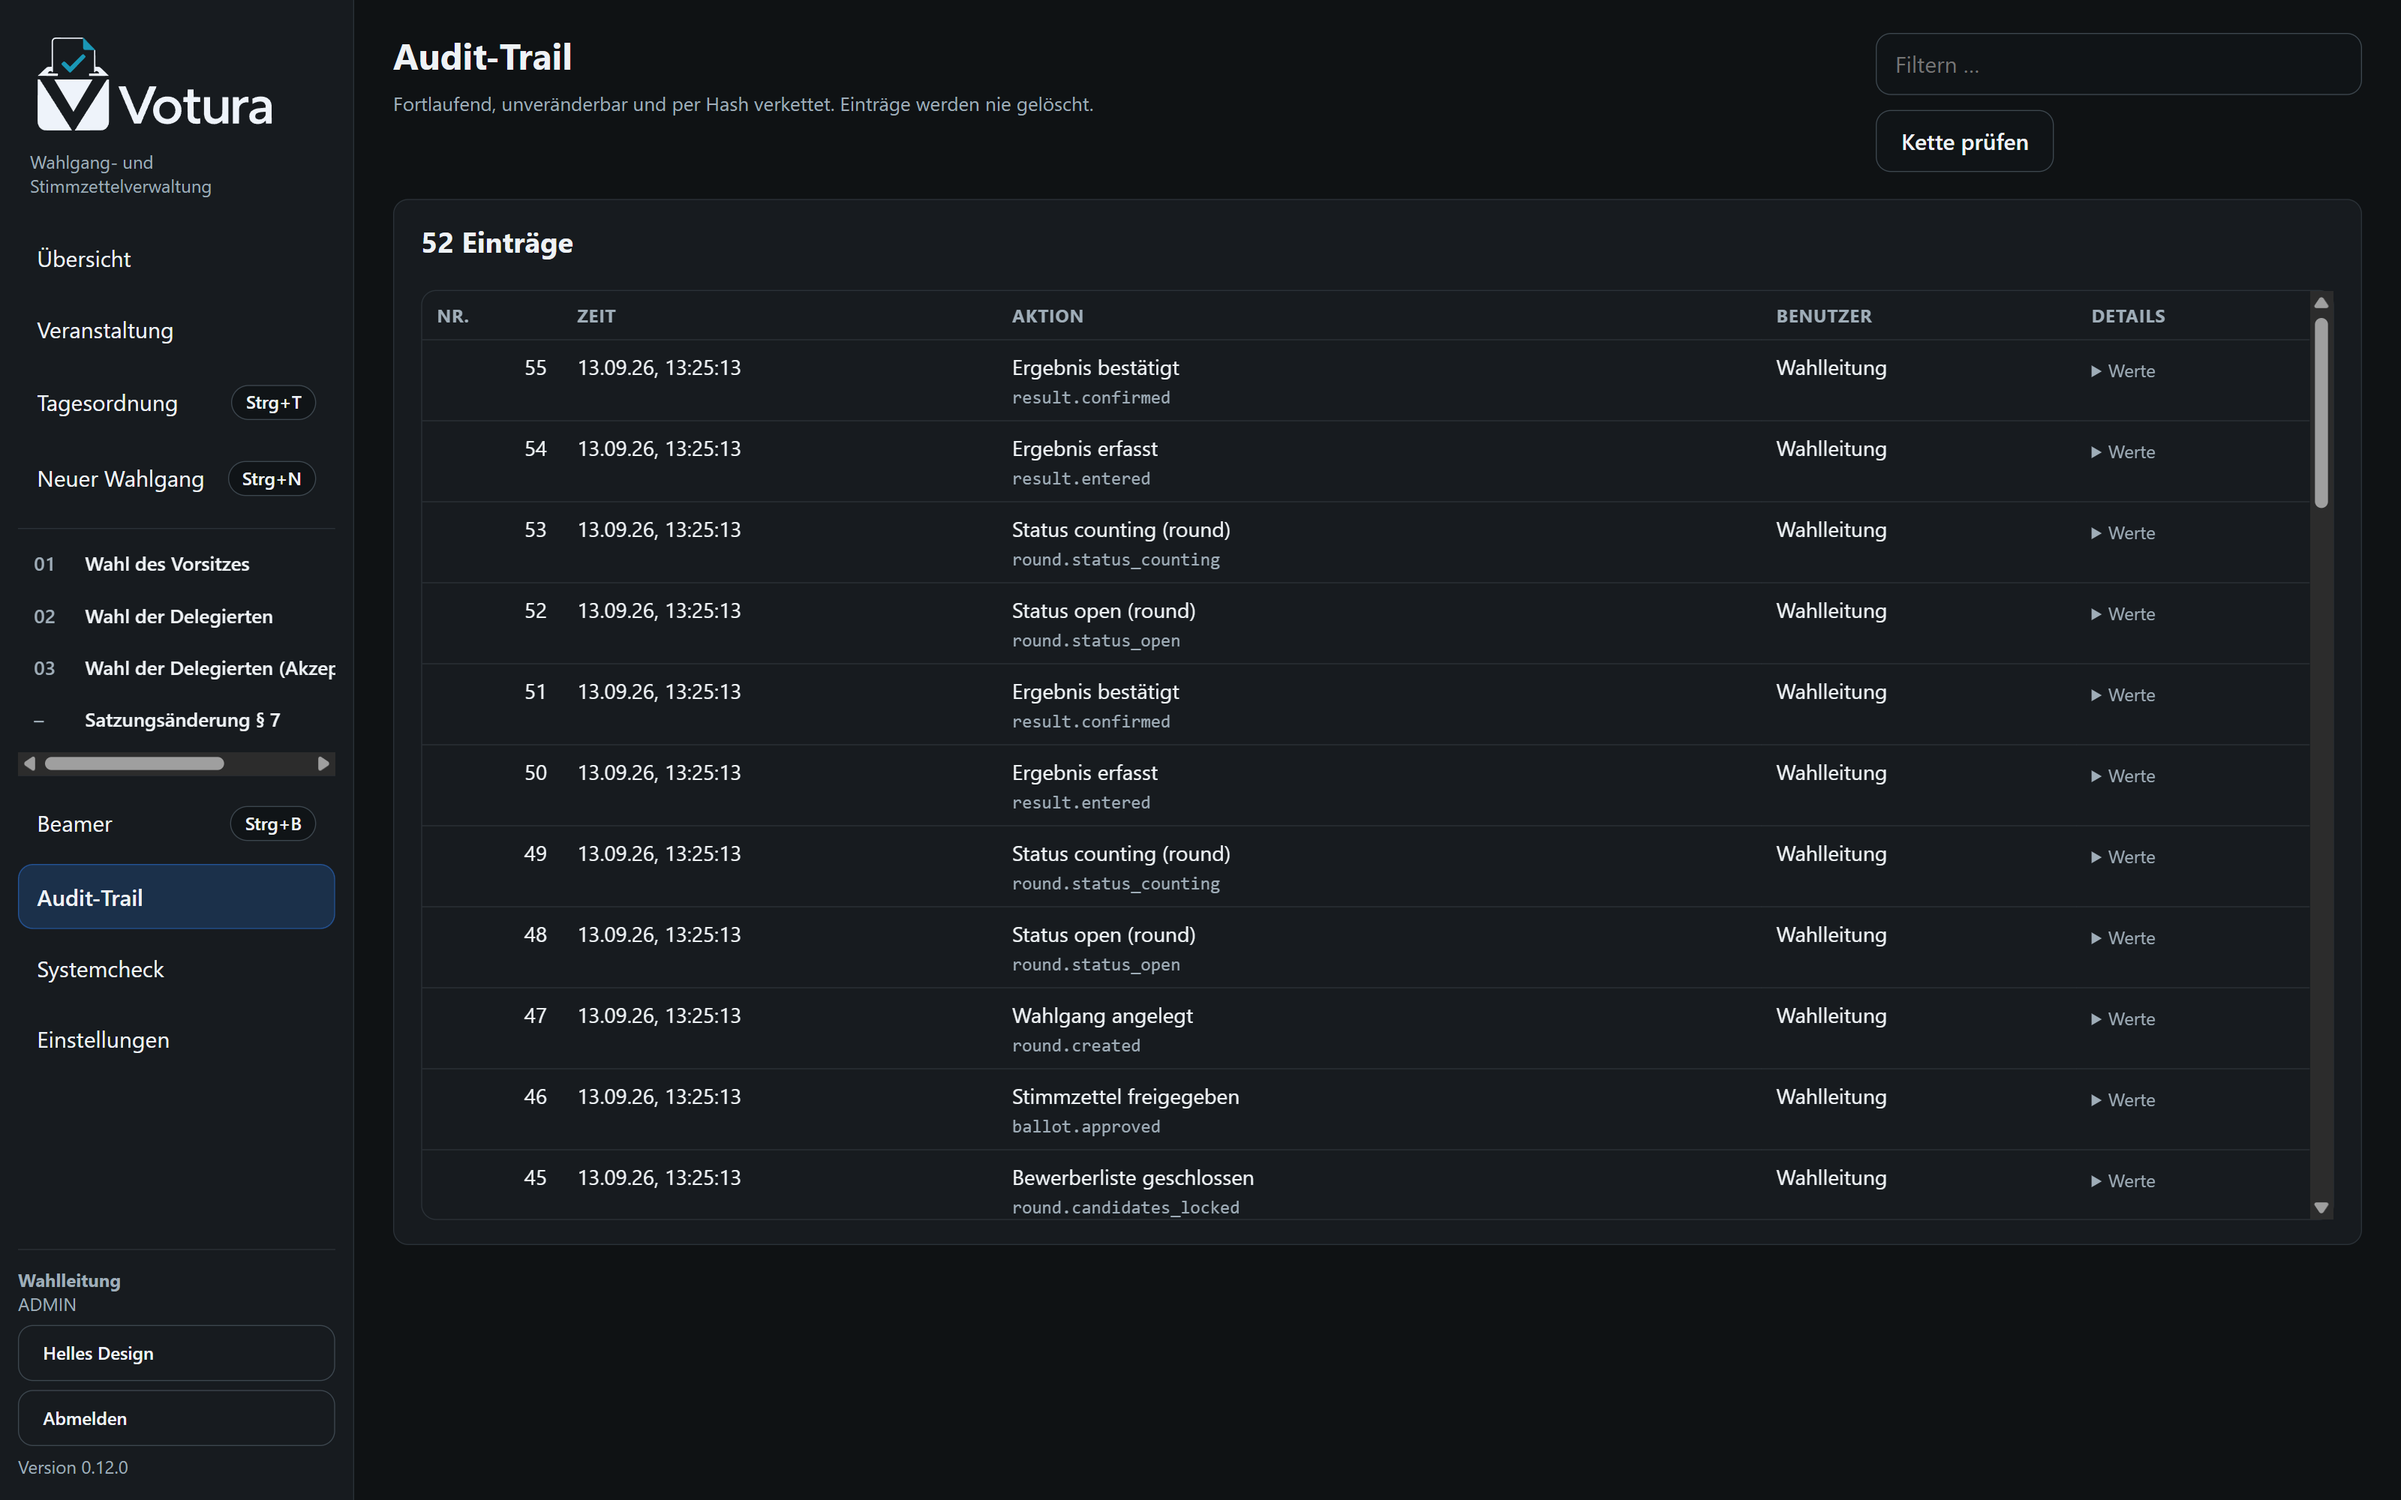
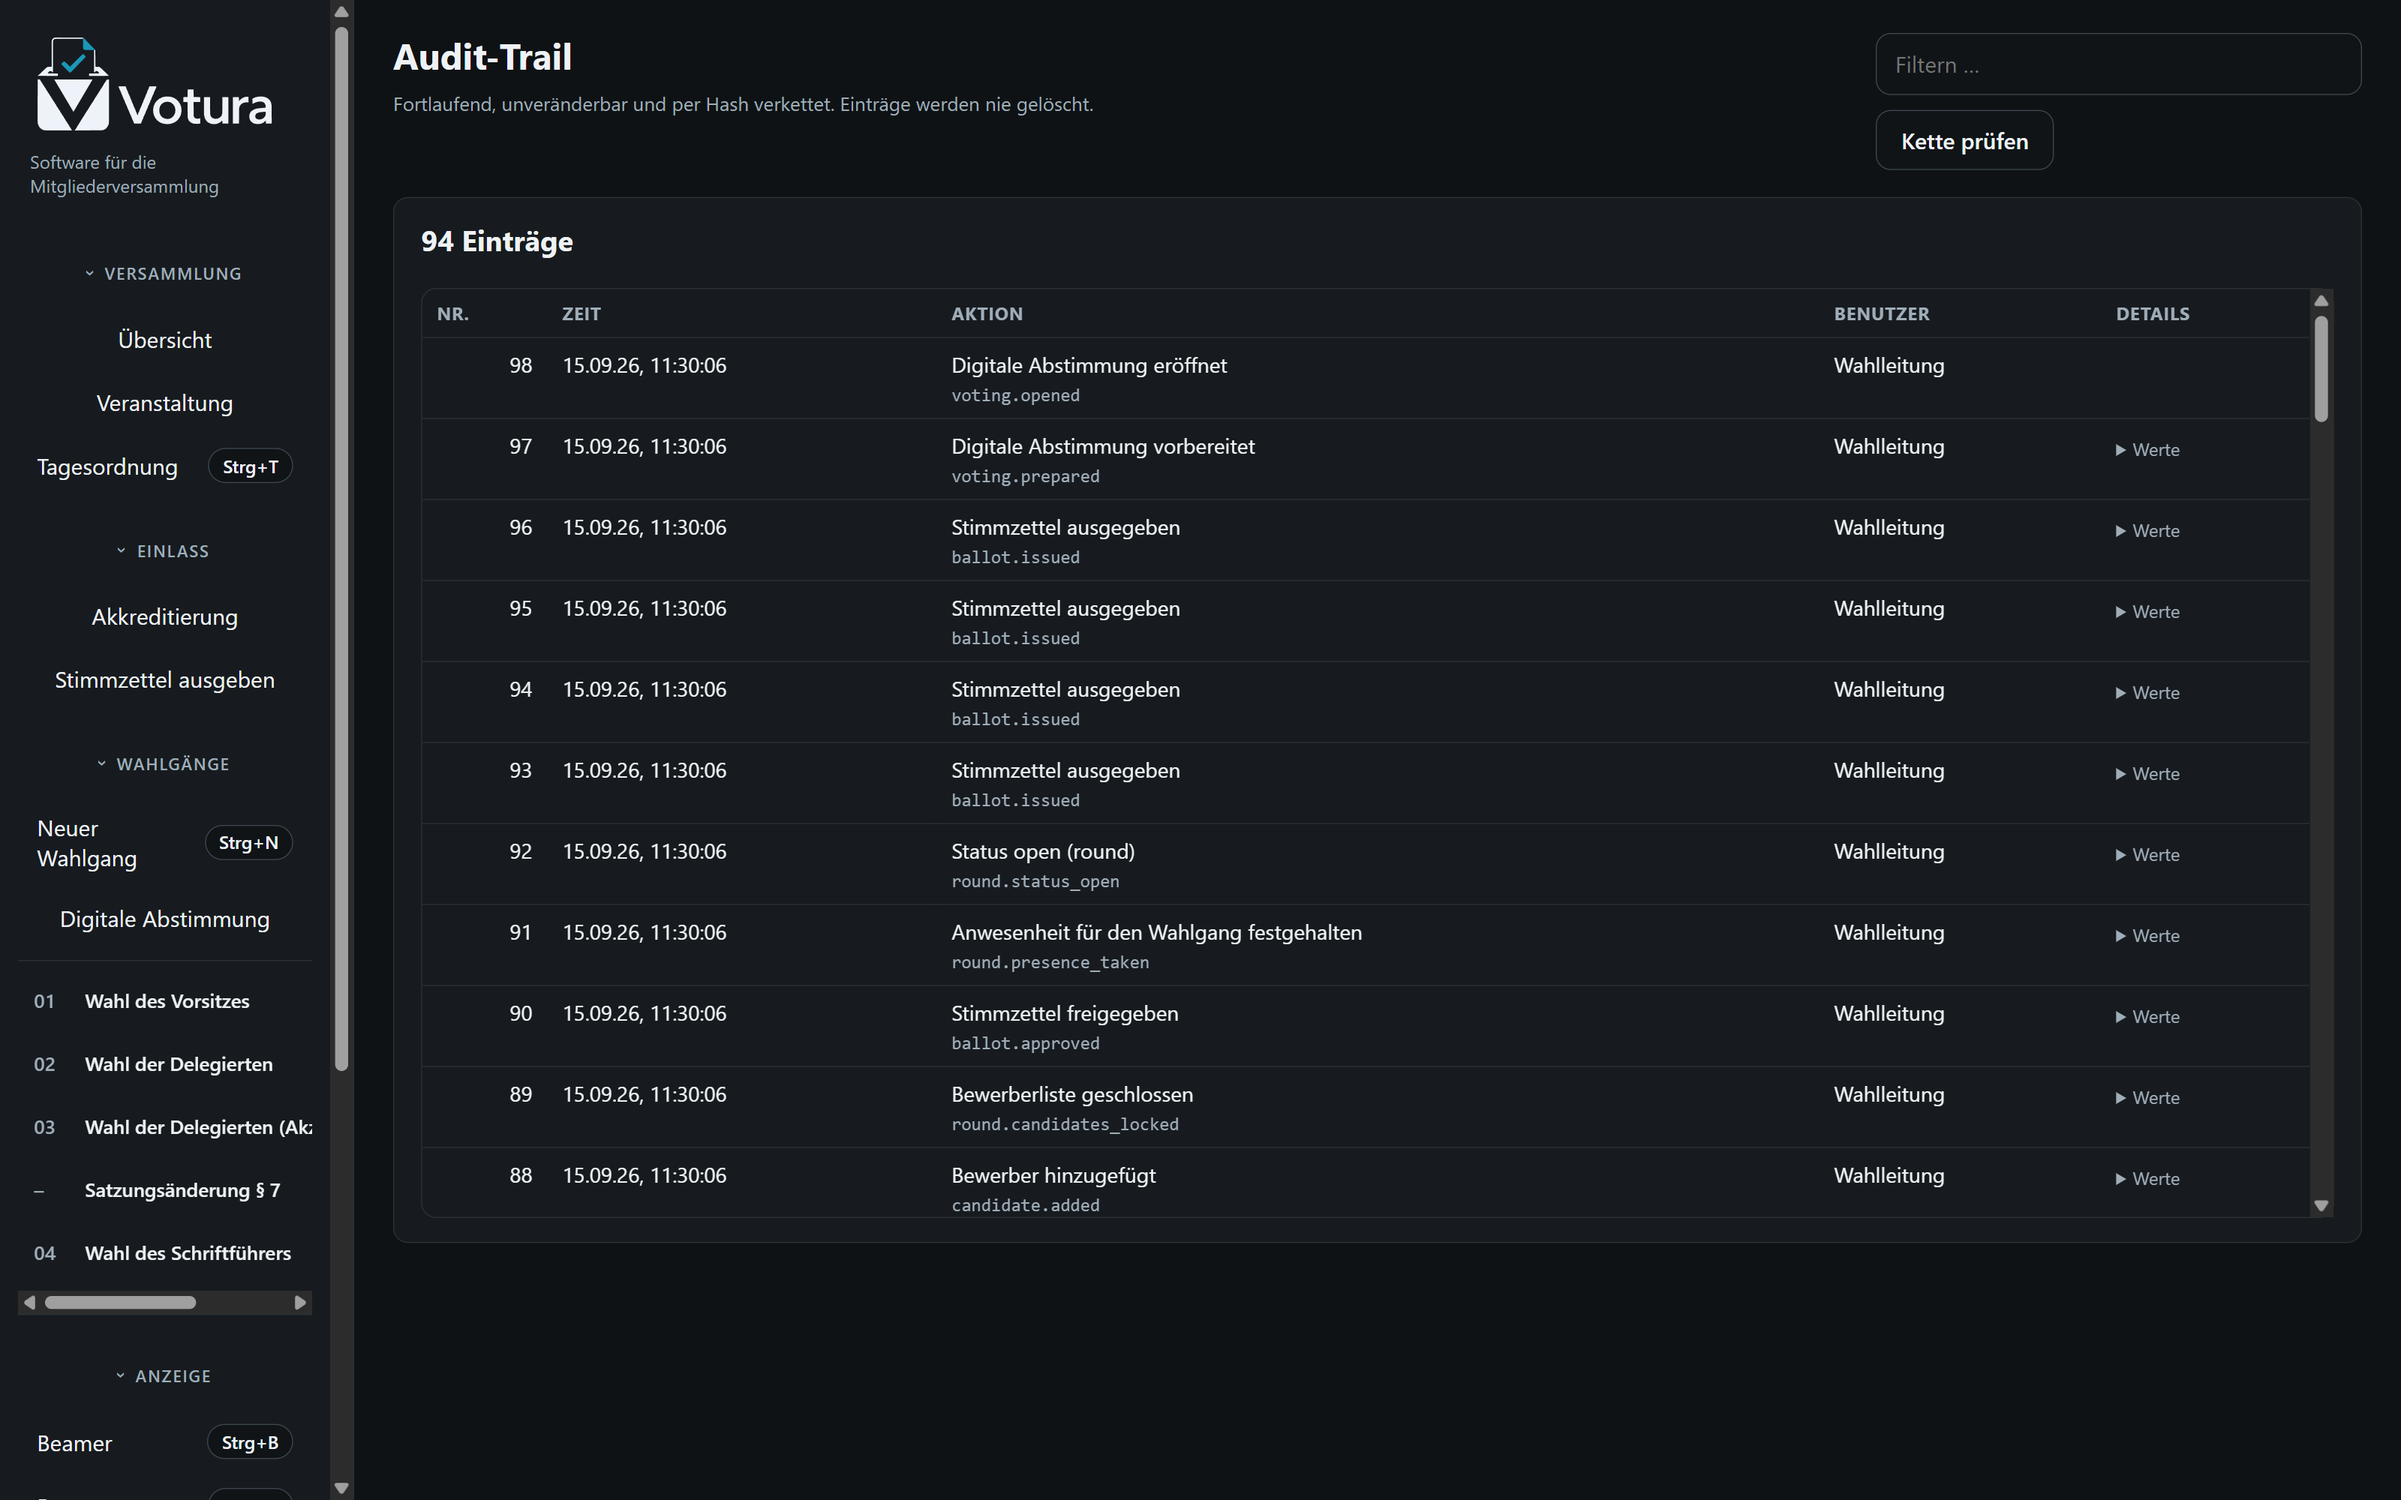
docs: die Bildschirmfotos zeigen wieder die Anwendung, die es gibt
Der Bestand stammte vom 13. September — zwei Fassungen und rund vierzig
Commits her. Drei Aufnahmen waren obendrein von Hand gemacht (Bühnen,
Pult, Prompterbedienung): Das Werkzeug kannte sie nicht und hätte sie
beim nächsten Lauf einfach alt stehen lassen.

Schwerer wog, was ganz fehlte: Für Einlass, Ausgabe, digitale
Abstimmung und Saalnetz — die Neuerungen aus 1.4.0 — gab es kein
einziges Bild. Das Werkzeug legt dafür jetzt auch die nötigen Daten an:
vierzehn Teilnehmer, davon neun anwesend und zwei Gäste, vierzig Karten,
ein laufender Wahlgang mit vier ausgegebenen Zetteln und offener
digitaler Abstimmung, dazu eine Rede mit Hinweisen, einem Bewerber
zugeordnet.

Zwei Fallen dabei, beide im Kommentar festgehalten: Der laufende
Wahlgang ist ein eigener (der Delegiertenwahlgang steht auf vier anderen
Aufnahmen und sähe eröffnet überall anders aus), und der Klick auf den
Wahlgang muss im Inhaltsbereich suchen — dieselbe Beschriftung steht
links in der Navigation, und der erste Versuch traf genau die.

Im README fehlten zu Einlass und digitaler Abstimmung ganze Abschnitte:
Die Tabelle oben nannte beides, der Text kannte es nicht.

diff --git a/README.md b/README.md
@@ -95,6 +95,47 @@ ausdrücklicher Bestätigung durch die Wahlleitung.
 </tr>
 </table>
 
+## Akkreditierung und Einlass
+
+Wer da ist, entscheidet über jede Mehrheit — deshalb führt Votura die Anwesenheit selbst, wenn man
+es will. **Es ist eine Möglichkeit, keine Pflicht:** Wer keine Teilnehmerliste führt, arbeitet
+weiter mit der Zahl, die an der Versammlung eingetragen ist.
+
+Wird sie geführt, ändert sich das Entscheidende: Die Zahl der stimmberechtigten Anwesenden wird
+**beim Eröffnen jedes Wahlgangs festgehalten**. Wer danach geht, hat trotzdem mitgewählt, und die
+nötige Mehrheit ändert sich nicht mitten im Verfahren.
+
+Drei Formen von Ausweis, je nach Haus: **Stimmkarten** aus Plastik kommen am Ausgang zurück in den
+Stapel, **Einlassbändchen** aus Papier werden abgerissen, und der **gedruckte Voting Pass** kommt
+aus dem Bondrucker. Gespeichert wird nur die Prüfsumme des Codes — aus der Datenbank lässt sich
+kein Ausweis nachbauen.
+
+<table>
+<tr>
+<td width="50%"><img src="docs/screenshots/26-akkreditierung.png" alt="Akkreditierung"><br><sub><b>Einlass</b> — Teilnehmer, Anwesenheit und Ausweise an einer Stelle; gescannt wird mit Handscanner, Kamera oder Tastatur.</sub></td>
+<td width="50%"><img src="docs/screenshots/27-ausgabe.png" alt="Ausgabe der Stimmzettel"><br><sub><b>Ausgabe</b> — ein Zettel gegen einen Ausweis, je Wahlgang genau einer. Die Menge geht gezählt in die Bilanz ein, nicht getippt.</sub></td>
+</tr>
+</table>
+
+## Digitale Abstimmung
+
+Papier bleibt der Regelfall — aber wenn die Versammlung es beschließt, kann dieselbe Abstimmung
+über die Geräte der Teilnehmer laufen: **offen**, **namentlich** oder **geheim**. Beides im selben
+Wahlgang ist möglich; niemand bekommt beides, und die Zählungen werden addiert statt überschrieben.
+
+Bei der geheimen Wahl unterschreibt der Rechner eine Berechtigung, **ohne zu sehen, was er
+unterschreibt** (Blindsignatur nach Chaum). In der Urne steht deshalb keine Person. Nachgezählt
+wird ein Urnenverzeichnis: je Zeile eine Seriennummer und die Stimme im Klartext — nachzählbar wie
+ein Stapel Zettel, von jedem im Saal.
+
+> **Die digitale geheime Wahl ist nicht für den produktiven Einsatz freigegeben.** Sie ist
+> vollständig umgesetzt und geprüft, aber noch nicht extern kryptografisch begutachtet. Was sie
+> leistet und was nicht, steht im [Bedrohungsmodell](docs/bedrohungsmodell-digitale-wahl.md).
+
+![Digitale Abstimmung führen](docs/screenshots/28-digitale-wahl.png)
+
+<sub><b>Vier Schritte in fester Folge</b> — vorbereiten, eröffnen, schließen, übernehmen. Der Schlüssel des Wahlgangs gehört <b>vor</b> der Eröffnung auf die Leinwand; danach lässt er sich nicht mehr unbemerkt austauschen.</sub>
+
 ## Wahlverfahren
 
 Wahlzweck (`purpose`) und Wahlverfahren (`procedure`) sind strikt getrennt: Aus „Delegiertenwahl"

diff --git a/docs/betrieb.md b/docs/betrieb.md
@@ -482,6 +482,13 @@ Die folgenden Aufnahmen stammen aus einem Demo-Bestand und lassen sich mit
 | ![Systemcheck](screenshots/05-systemcheck.png)                           | Prüfung vor der Versammlung                                                |
 | ![Einstellungen](screenshots/06-einstellungen.png)                       | Drucker, Sicherheit, Konten, Beamer-Erscheinungsbild                       |
 | ![Beameransicht](screenshots/11-beameransicht.png)                       | Öffentliche Anzeige des Ergebnisses                                        |
+| ![Akkreditierung](screenshots/26-akkreditierung.png)                     | Einlass: Teilnehmer, Anwesenheit, Ausweise                                 |
+| ![Ausgabe](screenshots/27-ausgabe.png)                                   | Ein Zettel gegen einen Ausweis, je Wahlgang genau einer                    |
+| ![Digitale Abstimmung](screenshots/28-digitale-wahl.png)                 | Vorbereiten, eröffnen, schließen, übernehmen                               |
+| ![Saalnetz](screenshots/29-saalnetz.png)                                 | Namensdienst, Adressvergabe und Zertifikat für das Veranstaltungsnetz      |
+| ![Bühnen](screenshots/23-buehnen.png)                                    | Mehrere Anzeigeflächen, jede mit eigenem Bild                              |
+| ![Prompter](screenshots/25-prompter-bedienung.png)                       | Reden ablegen, auflegen und Bewerbern zuordnen                             |
+| ![Pult](screenshots/24-teleprompter.png)                                 | Was am Pult zu sehen ist — Text, Lesezeile, Restzeit                       |
 
 ## Akkreditierung, Ausweise und Ausgabe
 
